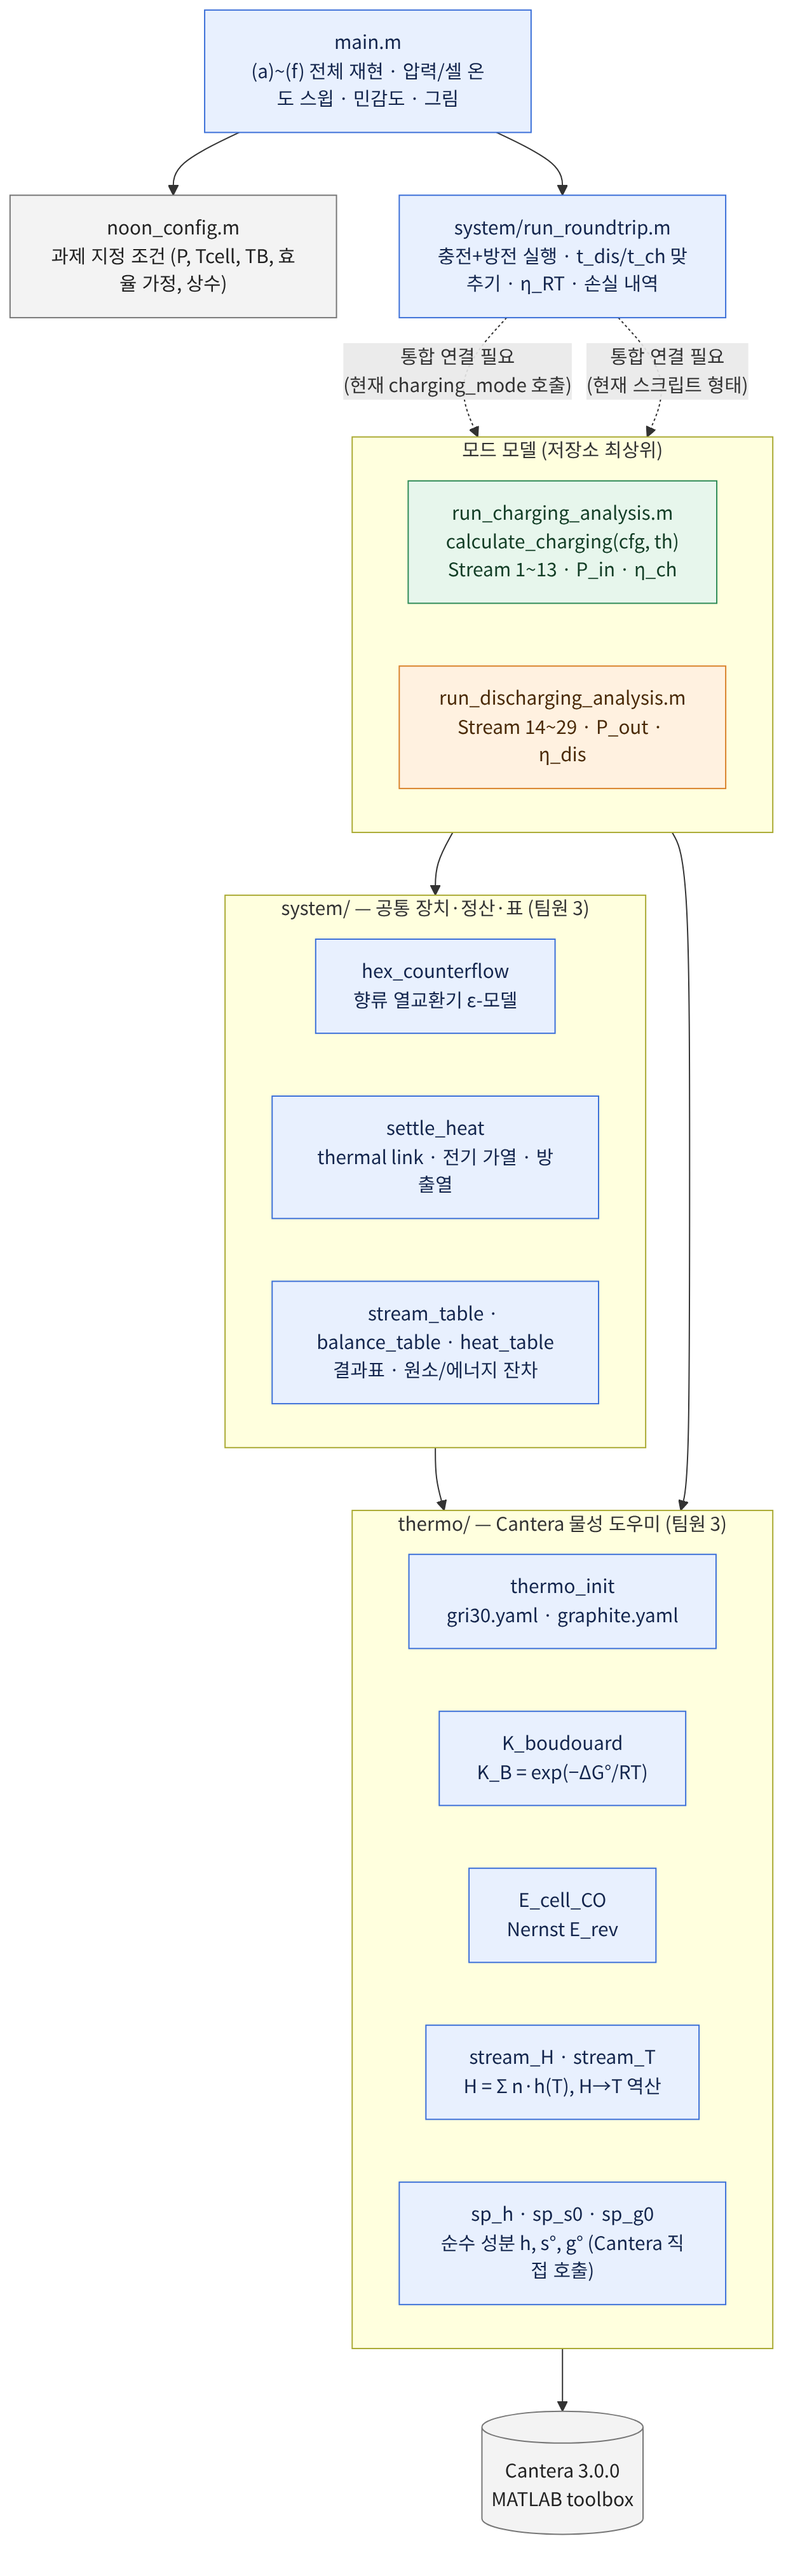
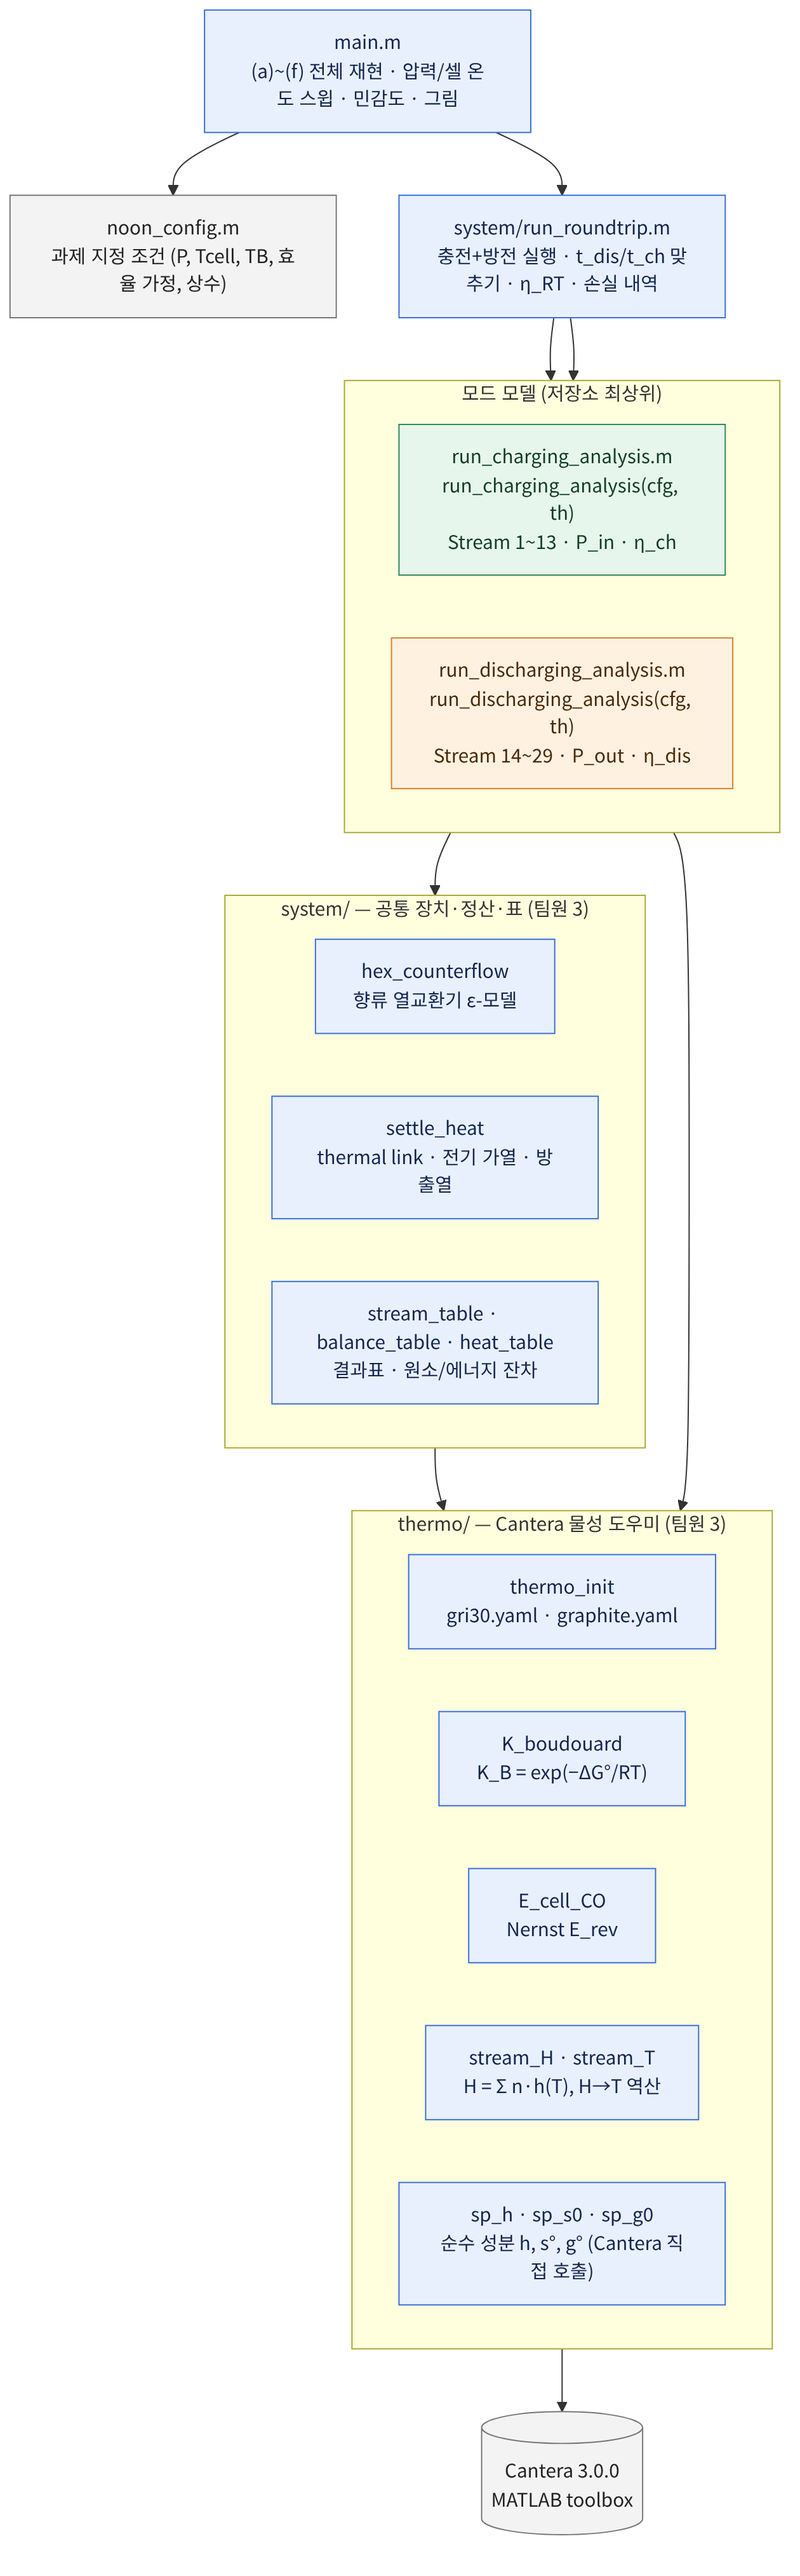
Connect main.m to run_charging_analysis / run_discharging_analysis
- system/run_roundtrip.m: 삭제된 charging_mode/discharging_mode 대신 팀원 1, 2의 함수 호출
- main.m: 없어진 modes/ 경로 대신 저장소 최상위 폴더를 경로에 추가, 머리 주석 갱신
- noon_config.m: 주석의 함수 이름 갱신
- docs/diagrams: 코드 구조도 연결선 갱신

Claude-Session: https://claude.ai/code/session_01JD6VmzDecjJXRcfZVgYKAy

diff --git a/main.m b/main.m
@@ -21,7 +21,10 @@
 %    noon_config.m : 과제 지정 조건 (모든 입력값)
 %    thermo/       : Cantera 물성 도우미 함수 (팀원 3)
 %    system/       : 공통 장치 모델, 수지표, 왕복 효율 통합 (팀원 3)
-%    modes/        : charging_mode.m (팀원 1), discharging_mode.m (팀원 2)
+%    run_charging_analysis.m    : 충전 모드 Stream 1~13 (팀원 1)
+%    run_discharging_analysis.m : 방전 모드 Stream 14~29 (팀원 2)
+%      두 파일 모두 R = run_xxx_analysis(cfg, th) 로 부르면 화면 출력 없이 결과만 돌려준다.
+%      인자 없이 단독 실행하면 각 모드만 따로 분석한다.
 %
 %  부호 규약 (전체 공통)
 %    Q > 0 : 장치로 들어가는 열 (가열 필요),  Q < 0 : 장치에서 빼내는 열
@@ -32,7 +35,7 @@ clear; clc; close all;
 
 here = fileparts(mfilename('fullpath'));         % 이 스크립트가 있는 폴더
 if isempty(here), here = pwd; end                % 섹션 단위로 실행할 때는 현재 폴더 사용
-addpath(fullfile(here, 'thermo'), fullfile(here, 'system'), fullfile(here, 'modes'));
+addpath(here, fullfile(here, 'thermo'), fullfile(here, 'system'));   % 최상위(모드 파일) + 공통 함수 폴더
 
 outdir = fullfile(here, 'results');              % 결과 저장 폴더
 if ~exist(outdir, 'dir'), mkdir(outdir); end

diff --git a/system/run_roundtrip.m b/system/run_roundtrip.m
@@ -3,7 +3,7 @@ function C = run_roundtrip(cfg, th)
 %
 %   C = run_roundtrip(cfg, th)
 %
-%   C.ch, C.dis : charging_mode / discharging_mode 결과 구조체
+%   C.ch, C.dis : run_charging_analysis / run_discharging_analysis 결과 구조체
 %   C.t_ratio   : t_dis / t_ch  (같은 탄소 재고 N_C 를 쓰도록 맞춘 운전 시간 비)
 %   C.eta_ch, C.eta_dis, C.eta_RT : 충전 / 방전 / 전기 왕복 효율 [-]
 %   C.eta_RT_energy : E_out/E_in 으로 직접 구한 왕복 효율 (C.eta_RT 와 같아야 한다)
@@ -15,8 +15,8 @@ function C = run_roundtrip(cfg, th)
 %   eta_dis = E_out / (N_C * LHV_C)
 %   eta_RT  = E_out / E_in = eta_ch * eta_dis        (N_C,stored = N_C,consumed 일 때)
 
-    ch  = charging_mode(cfg, th);        % 팀원 1 모듈: Stream 1~13
-    dis = discharging_mode(cfg, th);     % 팀원 2 모듈: Stream 14~29
+    ch  = run_charging_analysis(cfg, th);     % 팀원 1 모듈: Stream 1~13
+    dis = run_discharging_analysis(cfg, th);  % 팀원 2 모듈: Stream 14~29
 
     % --- 운전 시간 맞추기: N_C,stored = N_C,consumed ---
     %   N_C = nC_ch * t_ch = nC_dis * t_dis   ->   t_dis/t_ch = nC_ch/nC_dis

diff --git a/noon_config.m b/noon_config.m
@@ -5,7 +5,7 @@ function cfg = noon_config(varargin)
 %   cfg = noon_config('P_bar', 10)           % 이름-값 쌍으로 일부만 변경 (스윕/민감도용)
 %   cfg = noon_config('Tcell_C', 900, 'eff_hex', 0.95)
 %
-% 모든 모드 함수(charging_mode, discharging_mode)는 이 구조체만 입력으로 받는다.
+% 모든 모드 함수(run_charging_analysis, run_discharging_analysis)는 이 구조체만 입력으로 받는다.
 % 숫자를 코드 안에 직접 쓰지 않고 여기서만 바꾸면 전체 결과가 일관되게 바뀐다.
 %
 % 출처: Term_Project_2026_Noon_Energy_revV3.pdf "Assumptions and model definitions"

diff --git a/docs/diagrams/README.md b/docs/diagrams/README.md
@@ -6,7 +6,7 @@
 ## 1. 코드 구조도
 
 `main.m` → 통합 함수 → 충전·방전 모델 → 공통 장치 함수(`system/`) → 물성 함수(`thermo/`) → Cantera 순서로 호출합니다.
-파란색은 팀원 3, 초록색은 팀원 1, 주황색은 팀원 2 담당입니다. 점선은 아직 연결되지 않은 부분입니다.
+파란색은 팀원 3, 초록색은 팀원 1, 주황색은 팀원 2 담당입니다.
 
 ```mermaid
 flowchart TB
@@ -21,8 +21,8 @@ flowchart TB
 
     subgraph MODES["모드 모델 (저장소 최상위)"]
         direction LR
-        CH["run_charging_analysis.m<br/>calculate_charging(cfg, th)<br/>Stream 1~13 · P_in · η_ch"]:::t1
-        DIS["run_discharging_analysis.m<br/>Stream 14~29 · P_out · η_dis"]:::t2
+        CH["run_charging_analysis.m<br/>run_charging_analysis(cfg, th)<br/>Stream 1~13 · P_in · η_ch"]:::t1
+        DIS["run_discharging_analysis.m<br/>run_discharging_analysis(cfg, th)<br/>Stream 14~29 · P_out · η_dis"]:::t2
     end
 
     subgraph SYS["system/ — 공통 장치·정산·표 (팀원 3)"]
@@ -45,8 +45,8 @@ flowchart TB
 
     MAIN --> CFG
     MAIN --> RT
-    RT -. "통합 연결 필요<br/>(현재 charging_mode 호출)" .-> CH
-    RT -. "통합 연결 필요<br/>(현재 스크립트 형태)" .-> DIS
+    RT --> CH
+    RT --> DIS
     MODES --> SYS
     MODES --> TH
     SYS --> TH
